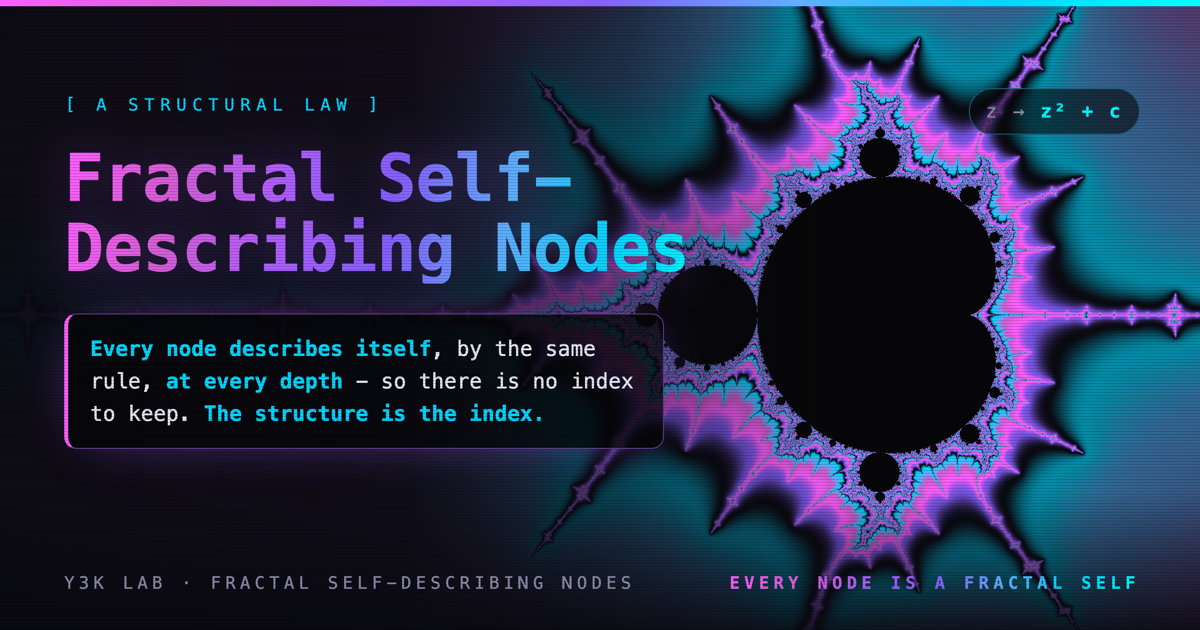
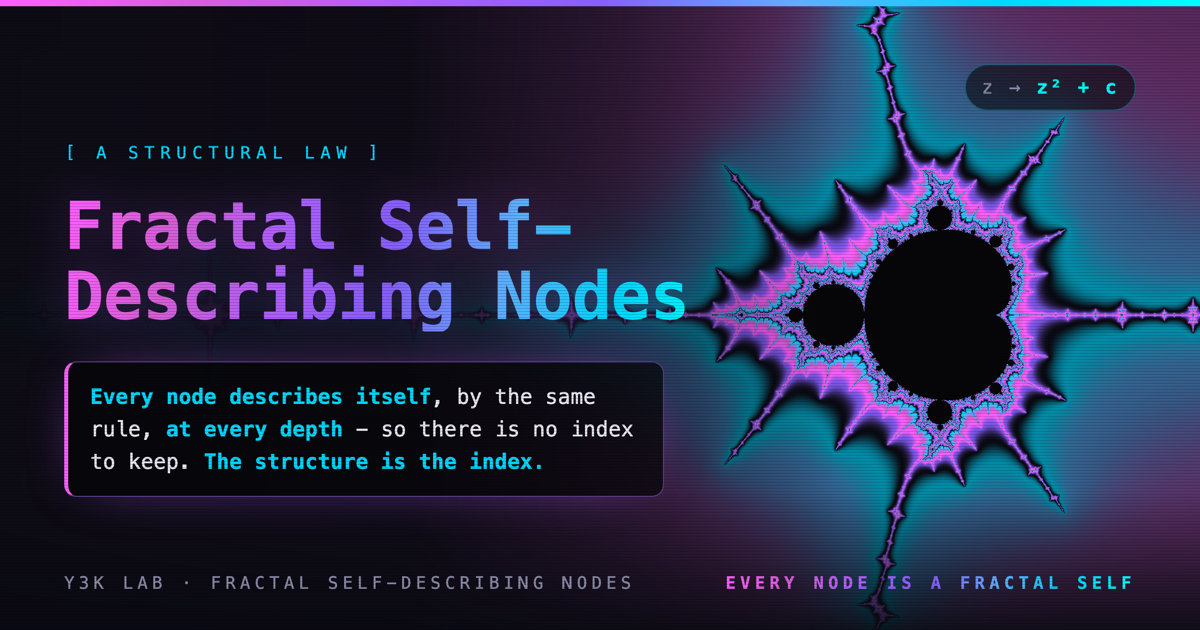
FSDN page: the set moves down beside section 01 (anchored from the DOM; behind the first card on phones); a second live fractal under the footer - the Julia set at the hero's own c = -1.755, the airplane, on a stage below the links with a one-line caption; the Garage link cut from the closing; share

diff --git a/fractal-self-describing-nodes/index.html b/fractal-self-describing-nodes/index.html
@@ -6,7 +6,7 @@
 
   This page is itself a fractal self-describing node: it names itself (the slug
   is the concept), it points UP to its parent (the Y3K Lab hub), and DOWN to where
-  the law runs (the Project System, the Garage). It practices what it documents.
+  the law runs (the Project System). It practices what it documents.
 -->
 <html lang="en">
 <head>
@@ -125,20 +125,22 @@
   .uplink .sep { color: var(--rail); }
   .uplink .here { color: var(--dim); }
 
-  /* ── The set, live, behind the title ──
+  /* ── The set, live, beside section 01 ──
      The same generator as the share card (og-image.html) - z -> z^2 + c on the
      period-3 minibrot at c = -1.755 - drawn on load in a Web Worker so the page
      never stalls, then faded in. Nothing here is an image file: the page computes
-     its own hero by the rule it documents. Masked toward the left and bottom so
-     the text sits on dark; the law box is opaque anyway. */
+     its own hero by the rule it documents. The script places the band over
+     section 01 (What FSDN is) from the DOM, right of the column on desktop and
+     behind the first, opaque property card on a phone; masked at both ends and
+     scrimmed toward the text so the prose sits on dark. */
   #set, .setscrim {
     position: absolute; left: 0; top: 0; width: 100%; height: 760px;
     pointer-events: none; z-index: -1;
   }
   #set {
     display: block; opacity: 0;
-    -webkit-mask-image: linear-gradient(to bottom, #000 60%, transparent 100%);
-            mask-image: linear-gradient(to bottom, #000 60%, transparent 100%);
+    -webkit-mask-image: linear-gradient(to bottom, transparent 0%, #000 22%, #000 72%, transparent 100%);
+            mask-image: linear-gradient(to bottom, transparent 0%, #000 22%, #000 72%, transparent 100%);
   }
   #set[data-ready] { opacity: .92; }
   .setscrim {
@@ -146,6 +148,21 @@
       var(--bg) 0%, color-mix(in srgb, var(--bg) 88%, transparent) 40%,
       color-mix(in srgb, var(--bg) 40%, transparent) 58%, transparent 74%);
   }
+  /* ── The Julia set, live, behind the footer ──
+     Same generator, other reading: c held at the hero's -1.755, the pixel as
+     z0. Every c has a Julia set; the Mandelbrot set is the index of the ones
+     that hold together. Rendered when the footer scrolls near, after the hero. */
+  #julia {
+    position: absolute; left: 0; top: 0; width: 100%; height: 460px;
+    display: block; opacity: 0; pointer-events: none; z-index: -1;
+    -webkit-mask-image: linear-gradient(to bottom, transparent 0%, #000 38%, #000 88%, transparent 100%);
+            mask-image: linear-gradient(to bottom, transparent 0%, #000 38%, #000 88%, transparent 100%);
+  }
+  #julia[data-ready] { opacity: .85; }
+  .jstage { height: 220px; }
+  @media (max-width: 720px) { .jstage { height: 150px; } }
+  footer .jcap { margin: 0 0 14px; font-size: 11.5px; letter-spacing: .04em; color: color-mix(in srgb, var(--dim) 80%, var(--ink)); }
+  footer .jcap code { color: var(--cyan); }
   @media (max-width: 720px) {
     #set { opacity: 0; }
     #set[data-ready] { opacity: .6; }
@@ -325,7 +342,7 @@
   /* ── Power-on load - content rises in; honors reduced-motion (§ degrade-off-TTY). ── */
   @media (prefers-reduced-motion: no-preference) {
     .rise { opacity: 0; animation: rise .55s ease forwards; }
-    #set { transition: opacity 1.2s ease; }
+    #set, #julia { transition: opacity 1.2s ease; }
     .rise:nth-child(1){animation-delay:.04s} .rise:nth-child(2){animation-delay:.10s}
     .rise:nth-child(3){animation-delay:.16s} .rise:nth-child(4){animation-delay:.22s}
     @keyframes rise { from { opacity:0; transform: translateY(10px); } to { opacity:1; transform:none; } }
@@ -339,6 +356,7 @@
   <!-- The set, computed live by the generator (script at the end of the body). -->
   <canvas id="set" aria-hidden="true"></canvas>
   <div class="setscrim" aria-hidden="true"></div>
+  <canvas id="julia" aria-hidden="true"></canvas>
 
   <!-- UP - the node points to its parent. -->
   <nav class="uplink">
@@ -511,9 +529,7 @@
         <strong>up</strong> to its parent - <a class="inline" href="/">the Y3K&nbsp;Lab
         hub</a> - and <strong>down</strong> to where the law runs: <a class="inline"
         href="/project-system/">the Project System</a>, which dissolved its master index
-        on the strength of it, and <a class="inline" href="https://garage.y3krc.com"
-        target="_blank" rel="noopener noreferrer">the Y3K&nbsp;RC Garage</a>, rendered
-        from its nodes with no list of vehicles anywhere. It practices what it
+        on the strength of it. It practices what it
         documents, down to the one line it writes by hand: a hand-authored page has
         no renderer to draw its breadcrumb.</p>
       <span class="echo">Every node is a fractal self.</span>
@@ -523,19 +539,22 @@
   </main>
 
   <footer>
+    <p class="jcap">Below: the Julia set for <code>c = -1.755</code>, the point the minibrot above sits on. Every <code>c</code> has a Julia set; the Mandelbrot set is the index of the ones that hold together.</p>
     <p class="motto">Certified Y3K Ready</p>
     <p><a href="/">← Y3K Lab</a> · <a href="fractal-self-describing-nodes.md" target="_blank" rel="noopener noreferrer" title="This page as plain Markdown - ideal for pasting to an AI assistant">View as Markdown</a> · © 1970-3000 Y3K · Shareware - copy it, share it, distribute freely on any BBS.</p>
   </footer>
+  <div class="jstage" aria-hidden="true"></div>
 
 <script>
 (function () {
-  // The hero is the share card's fractal, computed here rather than shipped as a
-  // file. A Web Worker (inline, no deps) runs the escape-time loop in row bands
-  // and posts each band back; the main thread only paints. See og-image.html for
-  // the same routine with its parameters explained.
-  var cv = document.getElementById('set');
-  if (!cv || !window.Worker || !window.Blob) return;
-  var ctx = cv.getContext('2d');
+  // Two live fractals, no image files. An inline Web Worker (no deps) runs the
+  // escape-time loop in row bands and posts each band back; the main thread only
+  // paints. The hero (#set) is the Mandelbrot minibrot the share card shows; the
+  // footer (#julia) is the Julia set at that same c. See og-image.html for the
+  // routine with its parameters explained.
+  var setCv = document.getElementById('set'), setScrim = document.querySelector('.setscrim');
+  var julCv = document.getElementById('julia');
+  if (!setCv || !julCv || !window.Worker || !window.Blob) return;
 
   var workerSrc = function () {
     var stops = [[0,[10,10,18]],[.18,[135,95,255]],[.34,[255,95,255]],[.52,[215,95,215]],[.68,[95,175,255]],[.84,[0,215,255]],[1,[10,10,18]]];
@@ -551,13 +570,16 @@
     self.onmessage = function (e) {
       var d = e.data, w = d.w, h = d.h, x0 = d.x0, x1 = d.x1, y0 = d.y0, y1 = d.y1;
       var maxIt = d.maxIt, cycle = d.cycle, fade = d.fade, band = 24;
+      var julia = d.julia, jr = julia ? julia[0] : 0, ji = julia ? julia[1] : 0;
       for (var ys = 0; ys < h; ys += band) {
         var rows = Math.min(band, h - ys), px = new Uint8ClampedArray(w * rows * 4);
         for (var j = 0; j < rows; j++) {
-          var ci = y1 - ((ys + j) / (h - 1)) * (y1 - y0);
+          var pi = y1 - ((ys + j) / (h - 1)) * (y1 - y0);
           for (var i2 = 0; i2 < w; i2++) {
-            var cr = x0 + (i2 / (w - 1)) * (x1 - x0);
-            var zr = 0, zi = 0, zr2 = 0, zi2 = 0, n = 0;
+            var pr = x0 + (i2 / (w - 1)) * (x1 - x0), zr, zi, cr, ci;
+            if (julia) { zr = pr; zi = pi; cr = jr; ci = ji; }   // Julia: z0 is the pixel, c is fixed
+            else       { zr = 0;  zi = 0;  cr = pr; ci = pi; }   // Mandelbrot: z0 = 0, c is the pixel
+            var zr2 = zr * zr, zi2 = zi * zi, n = 0;
             while (n < maxIt && zr2 + zi2 < 256) {
               zi = 2 * zr * zi + ci; zr = zr2 - zi2 + cr;
               zr2 = zr * zr; zi2 = zi * zi; n++;
@@ -581,36 +603,91 @@
   }.toString();
   var url = URL.createObjectURL(new Blob(['(' + workerSrc + ')()'], { type: 'text/javascript' }));
 
-  var worker = null, lastW = 0;
-  function render() {
-    var vw = document.documentElement.clientWidth, H = 760;
-    if (Math.abs(vw - lastW) < 80 && worker === null && cv.hasAttribute('data-ready')) return;
-    lastW = vw;
-    if (worker) { worker.terminate(); worker = null; }
-    // Resolution: crisp up to 2x, capped so the whole hero stays under ~2.4M px.
-    var scale = Math.min(window.devicePixelRatio || 1, 2, Math.sqrt(2.4e6 / (vw * H)));
-    var w = Math.round(vw * scale), h = Math.round(H * scale);
+  // Paint one canvas: size it (crisp to 2x, capped near 2.4M px), run the worker.
+  function paint(cv, job, W, H, onDone) {
+    if (cv._worker) { cv._worker.terminate(); cv._worker = null; }
+    var scale = Math.min(window.devicePixelRatio || 1, 2, Math.sqrt(2.4e6 / (W * H)));
+    var w = Math.round(W * scale), h = Math.round(H * scale);
     cv.width = w; cv.height = h;
-    // Where the set sits, in CSS px: right of the 720px column on desktop, like
-    // the card; centered-right and smaller on a phone. Vertical center between
-    // the title and the law box.
-    var phone = vw <= 720;
-    var setX = phone ? vw * 0.68 : Math.min(vw / 2 + 470, vw - 220);
-    var setY = phone ? 325 : 310;                         // phone: behind the law box, whose panel hides the body
-    var upp = (phone ? 2.1 : 1) * 0.105 / 1200;        // complex units per CSS px, as the card
-    var cx = -1.755, cy = 0;
-    var x0 = cx - setX * upp, x1 = cx + (vw - setX) * upp;
-    var y0 = cy - (H - setY) * upp, y1 = cy + setY * upp;
-    worker = new Worker(url);
+    var ctx = cv.getContext('2d'), worker = new Worker(url);
+    cv._worker = worker;
     worker.onmessage = function (e) {
       var d = e.data;
-      if (d.done) { cv.setAttribute('data-ready', '1'); worker.terminate(); worker = null; return; }
+      if (d.done) { cv.setAttribute('data-ready', '1'); worker.terminate(); cv._worker = null; if (onDone) onDone(); return; }
       ctx.putImageData(new ImageData(d.px, w, d.rows), 0, d.y);
     };
-    worker.postMessage({ w: w, h: h, x0: x0, x1: x1, y0: y0, y1: y1, maxIt: 700, cycle: 0.06, fade: 22 });
+    job.w = w; job.h = h;
+    worker.postMessage(job);
   }
-  render();
-  var t; window.addEventListener('resize', function () { clearTimeout(t); t = setTimeout(render, 250); });
+  function docY(el) { return el.getBoundingClientRect().top + window.scrollY; }
+
+  // The hero: a 760px band over section 01 (header through the four cards) on
+  // desktop, over the first, opaque property card on a phone. Positions come
+  // from the DOM so the band follows the layout at any width.
+  var lastW = 0, setDone = false, juliaWanted = false, juliaDone = false;
+  function placeSet(render) {
+    var vw = document.documentElement.clientWidth, H = 760, phone = vw <= 720;
+    var sec = document.getElementById('what'), props = document.querySelector('.props'), card = document.querySelector('.prop');
+    var centerY;
+    if (phone && card) centerY = docY(card) + card.getBoundingClientRect().height / 2;
+    else if (sec && props) centerY = (docY(sec) + docY(props) + props.getBoundingClientRect().height) / 2;
+    else centerY = 310 + H / 2;
+    var top = Math.round(centerY - H / 2);
+    setCv.style.top = top + 'px'; if (setScrim) setScrim.style.top = top + 'px';
+    if (!render) return;
+    var setX = phone ? vw / 2 : Math.min(vw / 2 + 510, vw - 220), setY = H / 2;
+    var upp = (phone ? 2.5 : 1) * 0.105 / 1200;          // complex units per CSS px, as the card
+    var cx = -1.755, cy = 0;
+    setDone = false;
+    paint(setCv, { x0: cx - setX * upp, x1: cx + (vw - setX) * upp, y0: cy - (H - setY) * upp, y1: cy + setY * upp,
+                   maxIt: 700, cycle: 0.06, fade: 22 }, vw, H,
+          function () { setDone = true; if (juliaWanted && !juliaDone) placeJulia(true); });
+  }
+
+  // The footer: a 460px band ending at the document's bottom, the Julia set's
+  // real axis on the stage below the footer, so the footer text sits on dark
+  // above it with only the set's central spine rising through.
+  function placeJulia(render) {
+    var vw = document.documentElement.clientWidth, H = 460, phone = vw <= 720;
+    var footer = document.querySelector('footer'); if (!footer) return;
+    var docH = document.documentElement.scrollHeight, top = Math.max(0, docH - H);
+    julCv.style.top = top + 'px';
+    if (!render || !setDone || julCv._worker) return;
+    var fr = footer.getBoundingClientRect(), centerY = docY(footer) + fr.height + (phone ? 80 : 110) - top;
+    var wide = Math.min(vw * 0.92, 1400), upp = 3.9 / wide;    // the airplane spans ~3.8 units on the real axis
+    paint(julCv, { x0: -(vw / 2) * upp, x1: (vw / 2) * upp, y0: -(H - centerY) * upp, y1: centerY * upp,
+                   julia: [-1.755, 0], maxIt: phone ? 400 : 600, cycle: 0.06, fade: 30 }, vw, H,
+          function () { juliaDone = true; });
+  }
+
+  placeSet(true); placeJulia(false);
+  // Render the footer's set only once the footer is within ~900px of the
+  // viewport, and after the hero, never alongside it. A passive scroll check
+  // rather than an IntersectionObserver: observers go quiet in a tab that is
+  // not being rendered, which made the band untestable from a background tab.
+  function nearFooter() {
+    var f = document.querySelector('footer');
+    return f && f.getBoundingClientRect().top < window.innerHeight + 900;
+  }
+  function wantJulia() {
+    if (juliaWanted || !nearFooter()) return;
+    juliaWanted = true; window.removeEventListener('scroll', wantJulia);
+    placeJulia(true);
+  }
+  window.addEventListener('scroll', wantJulia, { passive: true });
+  wantJulia();
+
+  var t; window.addEventListener('resize', function () {
+    clearTimeout(t);
+    t = setTimeout(function () {
+      var vw = document.documentElement.clientWidth, again = Math.abs(vw - lastW) >= 80;
+      lastW = vw;
+      placeSet(again);
+      if (again) juliaDone = false;
+      placeJulia(again && juliaWanted);
+    }, 250);
+  });
+  lastW = document.documentElement.clientWidth;
 })();
 </script>
 </body>

diff --git a/fractal-self-describing-nodes/og-image.html b/fractal-self-describing-nodes/og-image.html
@@ -57,7 +57,7 @@
   .topramp { position: absolute; top: 0; left: 0; right: 0; height: 6px; background: var(--ramp); z-index: 4; }
 
   .stage {
-    position: absolute; left: 64px; top: 92px; width: 660px; z-index: 2;
+    position: absolute; left: 64px; top: 140px; width: 660px; z-index: 2;
   }
   .kicker {
     color: var(--cyan); font-size: 17px; letter-spacing: .34em; text-transform: uppercase;
@@ -84,7 +84,7 @@
 
   /* The generator, tagged on the set like a specimen label. */
   .gen {
-    position: absolute; right: 60px; top: 88px; z-index: 2;
+    position: absolute; right: 64px; top: 64px; z-index: 2;
     font-size: 19px; letter-spacing: .12em; color: var(--dim);
     padding: 8px 16px; border: 1px solid color-mix(in srgb, var(--cyan) 30%, var(--rail));
     border-radius: 999px; background: rgba(6,6,8,.6);
@@ -98,7 +98,7 @@
     color: var(--dim);
   }
   .label.left  { left: 64px; }
-  .label.right { right: 60px; }
+  .label.right { right: 64px; }
   .label .motto {
     background: var(--ramp);
     -webkit-background-clip: text; background-clip: text; color: transparent;
@@ -128,7 +128,8 @@
   // Escape-time Mandelbrot, smooth-colored, painted in the Y3K ramp.
   // The window is the period-3 minibrot on the antenna, west of the main set
   // at c = -1.755: the whole set again, smaller, hung on a filament - which is
-  // the page's point. The set sits right of center so the text clears it. Card is 1200x630; the canvas renders at the
+  // the page's point. The set sits whole in the right half, on the card's
+  // midline, with the text block centered on the same line at the left. Card is 1200x630; the canvas renders at the
   // device pixel ratio so a 2x capture is crisp.
   var W = 1200, H = 630, dpr = window.devicePixelRatio || 1;
   var cv = document.getElementById('set');
@@ -142,11 +143,11 @@
   // exploring windows without editing the file.
   var q = new URLSearchParams(location.search);
   var num = function (k, d) { var v = parseFloat(q.get(k)); return isNaN(v) ? d : v; };
-  var cx = num('cx', -1.755), cy = num('cy', 0), span = num('span', 0.105);
-  var xw = num('xw', 0.76);                            // where cx sits, as a fraction of width
+  var cx = num('cx', -1.755), cy = num('cy', 0), span = num('span', 0.17);
+  var xw = num('xw', 0.80), yw = num('yw', 0.50);      // where (cx, cy) sits, as fractions of width and height
   var x0 = cx - span * xw, x1 = cx + span * (1 - xw);
   var ratio = h / w, yspan = (x1 - x0) * ratio;
-  var y0 = cy - yspan * 0.5, y1 = cy + yspan * 0.5;
+  var y0 = cy - yspan * (1 - yw), y1 = cy + yspan * yw;
   var maxIt = 900, bail = 256;
 
   // Palette: a cycle that returns to dark, so bands read as neon filaments.

diff --git a/fractal-self-describing-nodes/fractal-self-describing-nodes.md b/fractal-self-describing-nodes/fractal-self-describing-nodes.md
@@ -92,7 +92,7 @@ This is a deliberate synthesis, not a coinage from nothing. What's genuinely new
 
 - **Zettelkasten · HATEOAS · Maps of Content** *up/down links* Luhmann, 1952 · Fielding, 2000 · Milo, 2020 - atomic notes, each self-contained yet an index to others; hypermedia that carries its own links. The “no dead-ends” property.
 
-This page is itself a fractal self-describing node. It names itself, it points **up** to its parent - [the Y3K Lab hub](https://y3klab.com/) - and **down** to where the law runs: [the Project System](https://y3klab.com/project-system/), which dissolved its master index on the strength of it, and [the Y3K RC Garage](https://garage.y3krc.com), rendered from its nodes with no list of vehicles anywhere. It practices what it documents, down to the one line it writes by hand: a hand-authored page has no renderer to draw its breadcrumb.
+This page is itself a fractal self-describing node. It names itself, it points **up** to its parent - [the Y3K Lab hub](https://y3klab.com/) - and **down** to where the law runs: [the Project System](https://y3klab.com/project-system/), which dissolved its master index on the strength of it. It practices what it documents, down to the one line it writes by hand: a hand-authored page has no renderer to draw its breadcrumb.
 
 Every node is a fractal self.
 
